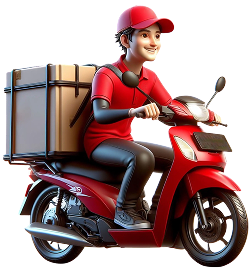
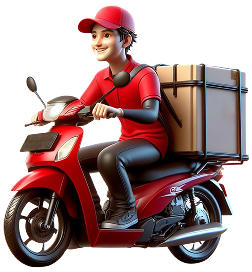
Initial commit

diff --git a/src/components/main-pages/bg-shap.tsx b/src/components/main-pages/bg-shap.tsx
@@ -1,0 +1,64 @@
+import IMAGES from "@/assets/images";
+
+const BgShap = () => {
+    return (
+        <section className="relative min-h-screen flex items-center">
+            <div className="max-w-7xl mx-auto w-full px-4 sm:px-6 lg:px-8">
+                <div className="flex flex-col lg:flex-row items-center justify-between gap-8 lg:gap-12">
+                    {/* Content Section - Stacked on mobile, side-by-side on desktop */}
+                    <div className="w-full lg:w-1/2 space-y-6 sm:space-y-8 order-2 lg:order-1">
+                        <div className="space-y-4 sm:space-y-6 text-center lg:text-left">
+                            <h1 className="text-3xl sm:text-4xl md:text-5xl lg:text-6xl font-black text-gray-900 leading-tight">
+                                Drive Your Way to 
+                                <span className="block text-transparent bg-clip-text bg-gradient-to-r from-[#AA1F27] to-[#FDBA4C]">
+                                    Success
+                                </span>
+                            </h1>
+                            <p className="text-base sm:text-lg lg:text-xl text-gray-600 max-w-2xl mx-auto lg:mx-0 leading-relaxed">
+                                Join MXDrive and start earning on your own terms. Flexible schedules, competitive pay, and a supportive community await.
+                            </p>
+                        </div>
+                        
+                        <div className="flex flex-col sm:flex-row gap-4 justify-center lg:justify-start">
+                            <button className="bg-[#AA1F27] text-white px-6 sm:px-8 py-3 sm:py-4 rounded-xl font-bold text-base sm:text-lg hover:bg-[#8a1920] transition-all duration-300 hover:scale-105">
+                                Get Started Today
+                            </button>
+                            <button className="border-2 border-[#AA1F27] text-[#AA1F27] px-6 sm:px-8 py-3 sm:py-4 rounded-xl font-bold text-base sm:text-lg hover:bg-[#AA1F27] hover:text-white transition-all duration-300">
+                                Learn More
+                            </button>
+                        </div>
+                    </div>
+
+                    {/* Image Section - Different treatment for mobile vs desktop */}
+                    <div className="w-full lg:w-1/2 order-1 lg:order-2">
+                        {/* Mobile: Simple image display */}
+                        <div className="lg:hidden flex justify-center">
+                            <img 
+                                src={IMAGES.DEL15} 
+                                alt="MXDrive Delivery Partner" 
+                                className="w-full max-w-sm sm:max-w-md object-contain"
+                            />
+                        </div>
+
+                        {/* Desktop: Background shape with image overlay */}
+                        <div className="hidden lg:block relative h-96 xl:h-screen">
+                            <div
+                                className="absolute inset-0 bg-gradient-to-br from-[#AA1F27] to-[#FDBA4C] opacity-15"
+                                style={{ clipPath: "polygon(100% 0, 70% 100%, 0% 90%, 50% 0)" }}
+                            />
+                            <div className="absolute inset-0 flex items-center justify-start pl-8">
+                                <img 
+                                    src={IMAGES.DEL15} 
+                                    alt="MXDrive Delivery Partner" 
+                                    className="w-full max-w-lg object-contain transform hover:scale-105 transition-transform duration-300"
+                                />
+                            </div>
+                        </div>
+                    </div>
+                </div>
+            </div>
+        </section>
+    )
+}
+
+export default BgShap;

diff --git a/src/pages/help-center.tsx b/src/pages/help-center.tsx
@@ -4,6 +4,7 @@
   import { Button } from '@/components/ui/button';
   import { Card, CardContent, CardHeader, CardTitle } from '@/components/ui/card';
   import { Accordion, AccordionContent, AccordionItem, AccordionTrigger } from '@/components/ui/accordion';
+import HeaderSection from '@/components/main-pages/header-navbar';
 
   const MXDriveHelpCenter = () => {
     const [searchQuery, setSearchQuery] = useState('');
@@ -117,32 +118,10 @@
     return (
       <div className="min-h-screen bg-gradient-to-b from-gray-50 to-white">
         {/* Header */}
-        <div className="bg-white border-b border-gray-200">
-          <div className="max-w-7xl mx-auto px-4 sm:px-6 lg:px-8">
-            <div className="flex flex-col sm:flex-row justify-between items-center py-4 space-y-4 sm:space-y-0">
-              <div className="flex items-center space-x-4">
-                <div className="w-10 h-10 bg-[#E3B24A] rounded-lg flex items-center justify-center">
-                  <Car className="h-6 w-6 text-white" />
-                </div>
-                <div>
-                  <h1 className="text-xl font-bold text-[#393939]">MXDrive</h1>
-                  <p className="text-sm text-[#393939CC]">Help Center</p>
-                </div>
-              </div>
-              <div className="flex items-center space-x-4">
-                <Button variant="ghost" className="text-[#393939CC] hover:text-[#393939]">
-                  Go to MXDrive Business
-                </Button>
-                <Button className="bg-[#E3B24A] hover:bg-[#D4A23F] text-white">
-                  Support Sign In
-                </Button>
-              </div>
-            </div>
-          </div>
-        </div>
+         <HeaderSection />
 
         {/* Hero Section */}
-        <div className="max-w-7xl mx-auto px-4 sm:px-6 lg:px-8 py-12">
+        <div className="max-w-7xl mx-auto px-4 sm:px-6 lg:px-8 py-12 mt-18 ">
           <div className="text-center mb-12">
             <h1 className="text-4xl md:text-5xl font-bold text-[#393939] mb-6">
               How can we help?

diff --git a/src/pages/signup-section.tsx b/src/pages/signup-section.tsx
@@ -9,6 +9,7 @@ import { Truck, Users, Zap, Shield, ArrowRight, Star, Menu, Store, ShoppingCart,
 import IMAGES from "@/assets/images";
 import { ApplicationForm } from "../components/main-pages/application-form";
 import { Link } from "react-router-dom";
+import BgShap from "@/components/main-pages/bg-shap";
 
 export default function MXDriveSignup() {
   const [mobileMenuOpen, setMobileMenuOpen] = useState(false);
@@ -121,7 +122,7 @@ export default function MXDriveSignup() {
           </div>
         </div>
       </header>
-
+      <BgShap />
       {/* Hero Section - Modern Design */}
       <section className="relative bg-gradient-to-br from-gray-50 via-white to-orange-50 py-20">
         <div className="max-w-7xl mx-auto px-4">

diff --git a/src/assets/images/index.ts b/src/assets/images/index.ts
@@ -13,6 +13,7 @@ import del5 from "./del-5.png";
 import del7 from "./del-7.jpeg";
 import del9 from "./del-9.jpg";
 import del10 from "./del-10.png";
+import del15 from "./del-15.png";
 import mxdriverlogo from "./mxdriver-logo.png";
 
 
@@ -37,6 +38,7 @@ const IMAGES: ImageMap = {
   DEL7: del7,
   DEL9: del9,
   DEL10: del10,
+  DEL15: del15,
   MXDRIVERLOGO: mxdriverlogo,  
   LOGOBGWITHOUT: logobgwithout,
 };

diff --git a/src/pages/main-page.tsx b/src/pages/main-page.tsx
@@ -19,6 +19,7 @@ const Mainpage = () => {
     <div className="w-full ">
       <div className="min-h-screen bg-white">
         <HeaderNavbar />
+       
         <HeroSection />
         <Services />
         <Features />
